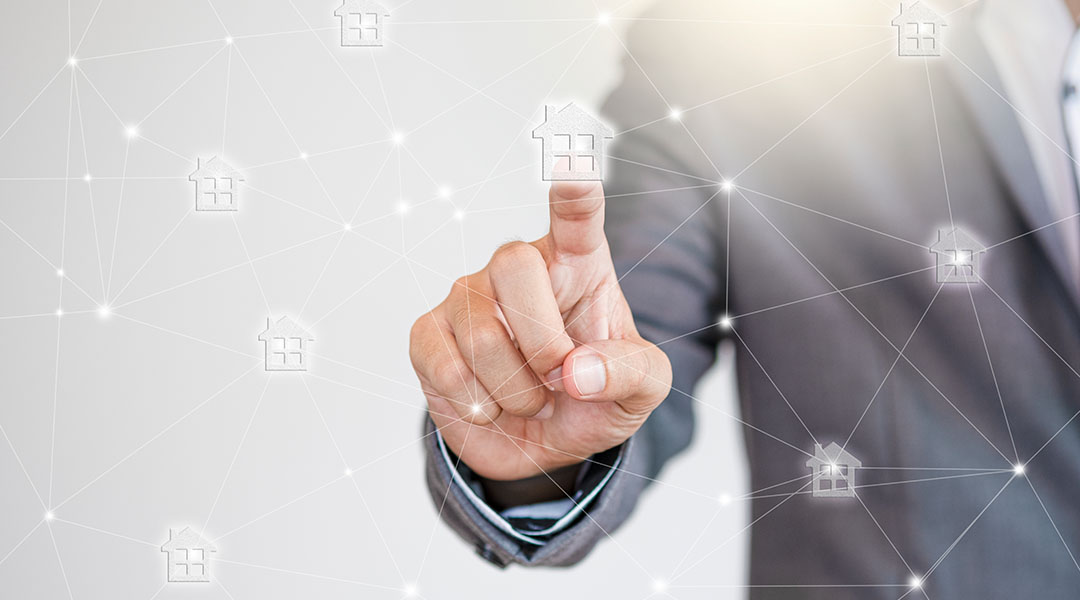
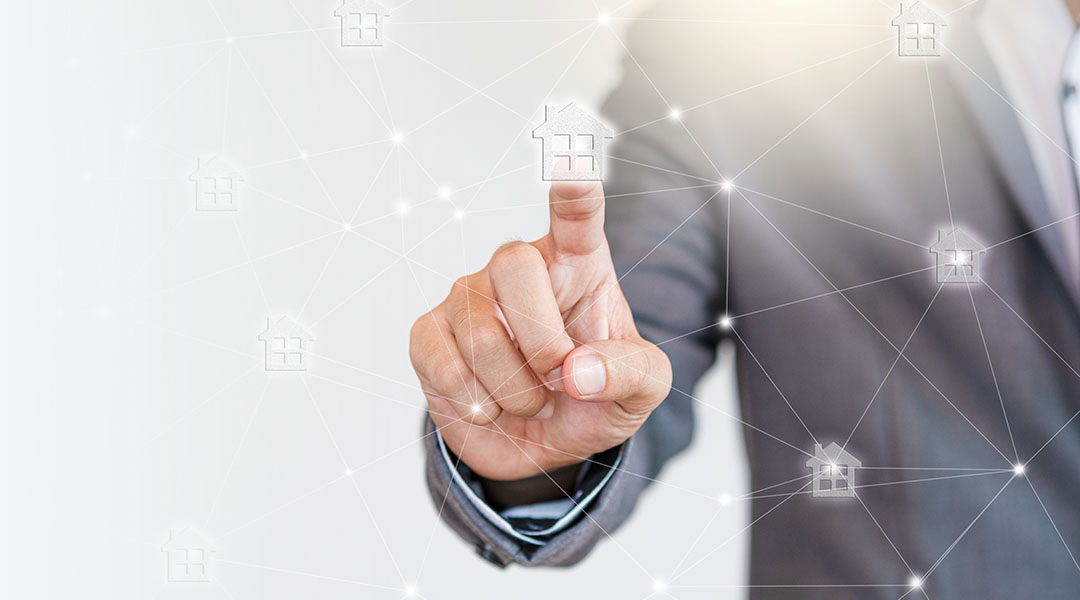
Added news page

Changed region(s): [[0.0, 0.0, 0.1528, 1.0], [0.1528, 0.93, 0.1833, 0.96]]

diff --git a/source/news.html b/source/news.html
@@ -1,0 +1,170 @@
+<!DOCTYPE html>
+<html lang="en">
+
+<head>
+  <meta charset="UTF-8">
+  <meta http-equiv="X-UA-Compatible" content="IE=edge">
+  <meta name="viewport" content="width=device-width, initial-scale=1.0">
+  <meta name="description" content="----">
+  <link rel="stylesheet" href="./css/style.css">
+  <title>CreateX</title>
+</head>
+
+<body>
+  <header class="header">
+    <div class="wrapper">
+      <div class="header__wrapper">
+        <a href="/" class="logo header__logo">
+          <img loading="lazy" src="./img/logo.png" alt="Logo">
+        </a>
+        <nav class="header__nav nav">
+          <ul class="nav__list">
+            <li><a href="about.html" class="nav__item">About us</a></li>
+            <li><a href="services.html" class="nav__item">Services</a></li>
+            <li><a href="work.html" class="nav__item">Work</a></li>
+            <li><a href="news.html" class="nav__item nav__item--active">News</a></li>
+          </ul>
+        </nav>
+        <ul class="nav__actions">
+          <li>
+            <a href="#" class="nav__action nav__action--tel">
+              <div>
+                <p class="nav__action--name">Call us</p>
+                <p class="nav__action--contacts">(405) 555-0128</p>
+              </div>
+            </a>
+          </li>
+          <li>
+            <a href="mailto:hello@createx.com" class="nav__action nav__action--email">
+              <div>
+                <p class="nav__action--name">Talk to us</p>
+                <p class="nav__action--contacts">hello@createx.com</p>
+              </div>
+            </a>
+          </li>
+        </ul>
+      </div>
+    </div>
+  </header>
+
+  <div class="subsection subsection--news">
+    <div class="wrapper">
+      <div class="subsection__container">
+        <p class="subsection__pagination">Homepage / <span class="subsection__pagination--light">News</span></p>
+        <h2 class="subsection__title">News</h2>
+        <p class="subsection__description">
+          Stay tuned with our news, expert tips and articles.
+        </p>
+      </div>
+    </div>
+  </div>
+  <section class="request">
+    <div class="wrapper request__wrapper">
+      <div class="form request__content">
+        <h4 class="form__title request__title">A quick way to discuss details</h4>
+        <form action="#" class="form__form request__form">
+          <div class="form__field">
+            <label class="form__label request__label" for="request_name">Name*</label>
+            <input class="form__input" type="text" name="name" id="request_name" placeholder="Your name">
+          </div>
+          <div class="form__field">
+            <label class="form__label request__label" for="request_phone">Phone*</label>
+            <input class="form__input" type="text" name="phone" id="request_phone" placeholder="Your phone number">
+          </div>
+          <div class="form__field">
+            <label class="form__label request__label" for="request_email">Email</label>
+            <input class="form__input" type="text" name="name" id="request_email" placeholder="Your working email">
+          </div>
+          <div class="form__field">
+            <label class="form__label request__label" for="request_message">Message*</label>
+            <textarea class="form__textarea" name="message" id="request_message" placeholder="Your message"></textarea>
+          </div>
+          <div class="form__field">
+            <input class="form__checkbox" type="checkbox" name="checkbox" id="checkbox" checked>
+            <label for="checkbox" class="form__check-label">
+              I agree to receive communications from Createx Construction Bureau.
+            </label>
+          </div>
+          <div class="form__field request__field">
+            <input type="submit" value="Send request" class="button">
+          </div>
+        </form>
+      </div>
+    </div>
+  </section>
+
+  <footer class="footer">
+    <div class="wrapper footer__wrapper">
+      <div class="footer__main">
+        <div class="footer__head">
+          <a href="#" class="footer__logo">
+            <img loading="lazy" src="./img/footer--logo.png" alt="Logo">
+          </a>
+          <ul class="footer__social">
+            <li><a href="#" class="footer__icon footer__icon--whatsapp"></a></li>
+            <li><a href="#" class="footer__icon footer__icon--messanger"></a></li>
+            <li><a href="#" class="footer__icon footer__icon--facebook"></a></li>
+            <li><a href="#" class="footer__icon footer__icon--twitter"></a></li>
+            <li><a href="#" class="footer__icon footer__icon--youtube"></a></li>
+          </ul>
+        </div>
+        <p class="footer__text">
+          Createx Construction Bureau has been successfully operating in the USA construction market since 2000. We are
+          proud to offer you quality construction and exemplary service. Our mission is to set the highest standards for
+          construction sphere.
+        </p>
+      </div>
+
+      <div class="footer__subscribe">
+        <p class="footer__form-title">Let's stay in touch</p>
+        <form action="" class="footer__form">
+          <input type="text" name="email" class="footer__input" placeholder="Your email address">
+          <input type="submit" value="Subscribe" class="button footer__btn">
+        </form>
+        <p class="footer__form-remark">
+          *Subscribe to our newsletter to receive communications and early updates from Createx Construction Bureau.
+        </p>
+      </div>
+
+      <div class="footer__contacts">
+        <p class="footer__title">Head office</p>
+        <p class="footer__link"><span class="footer__link--white">Address: </span>8502 Preston Rd. Inglewood, New York
+        </p>
+        <p class="footer__link"><span class="footer__link--white">Call: </span><a href="tel:+1234567890">(405)
+            555-0128</a></p>
+        <p class="footer__link"><span class="footer__link--white">Email: </span><a
+            href="mailto:hello@createx.com">hello@createx.com</a>
+        </p>
+      </div>
+
+      <div class="footer__links footer__links--left">
+        <p class="footer__title">Who we are</p>
+        <ul>
+          <li class="footer__link"><a href="#">About Us</a></li>
+          <li class="footer__link"><a href="#">Available Positions</a></li>
+          <li class="footer__link"><a href="#">Contacts</a></li>
+        </ul>
+      </div>
+
+      <div class="footer__links footer__links--right">
+        <p class="footer__title">Our experience</p>
+        <ul>
+          <li class="footer__link"><a href="#">Services</a></li>
+          <li class="footer__link"><a href="#">Work</a></li>
+          <li class="footer__link"><a href="#">News</a></li>
+        </ul>
+      </div>
+      <p class="footer__copyright">© All rights reserved. Made with <svg class="footer__copyright-icon"
+          xmlns="http://www.w3.org/2000/svg" width="16" height="16" viewBox="0 0 16 16" fill="none">
+          <path fill-rule="evenodd" clip-rule="evenodd"
+            d="M7.99925 13.2715C4.93321 11.5252 3.22318 9.78955 2.39626 8.28361C1.54992 6.74228 1.62377 5.4441 2.0934 4.52273C3.05872 2.62892 5.80378 2.02333 7.4763 4.13865L7.99921 4.80001L8.52217 4.13868C10.195 2.02327 12.9402 2.62896 13.9055 4.52273C14.3751 5.44408 14.4489 6.74226 13.6025 8.28359C12.7756 9.78954 11.0654 11.5252 7.99925 13.2715ZM7.99928 2.73726C5.64647 0.501518 2.17555 1.42555 0.905488 3.91723C0.20846 5.2847 0.198939 7.05212 1.22753 8.92536C2.247 10.782 4.2796 12.7417 7.67675 14.6194L7.99924 14.7976L8.32173 14.6194C11.719 12.7417 13.7517 10.782 14.7712 8.92537C15.7999 7.05214 15.7904 5.28472 15.0934 3.91723C13.8233 1.4255 10.3523 0.501552 7.99928 2.73726Z"
+            fill="#FF5A30" />
+        </svg> by Createx Studio</p>
+    </div>
+  </footer>
+
+  <script src="./js/slider.js"></script>
+  <script src="./js/about.js"></script>
+</body>
+
+</html>

diff --git a/source/css/style.css b/source/css/style.css
@@ -1143,6 +1143,9 @@ img {
 .subsection--about {
   background-image: url(../img/about--bg.png);
 }
+.subsection--news {
+  background-image: url(../img/news--bg.png);
+}
 .subsection--available {
   background-image: url(../img/available--bg.png);
   background-position-y: bottom;

diff --git a/source/sass/components/subsection.scss b/source/sass/components/subsection.scss
@@ -16,6 +16,10 @@
     background-image: url(../img/about--bg.png);
   }
 
+  &--news {
+    background-image: url(../img/news--bg.png);
+  }
+
   &--available {
     background-image: url(../img/available--bg.png);
     background-position-y: bottom;
